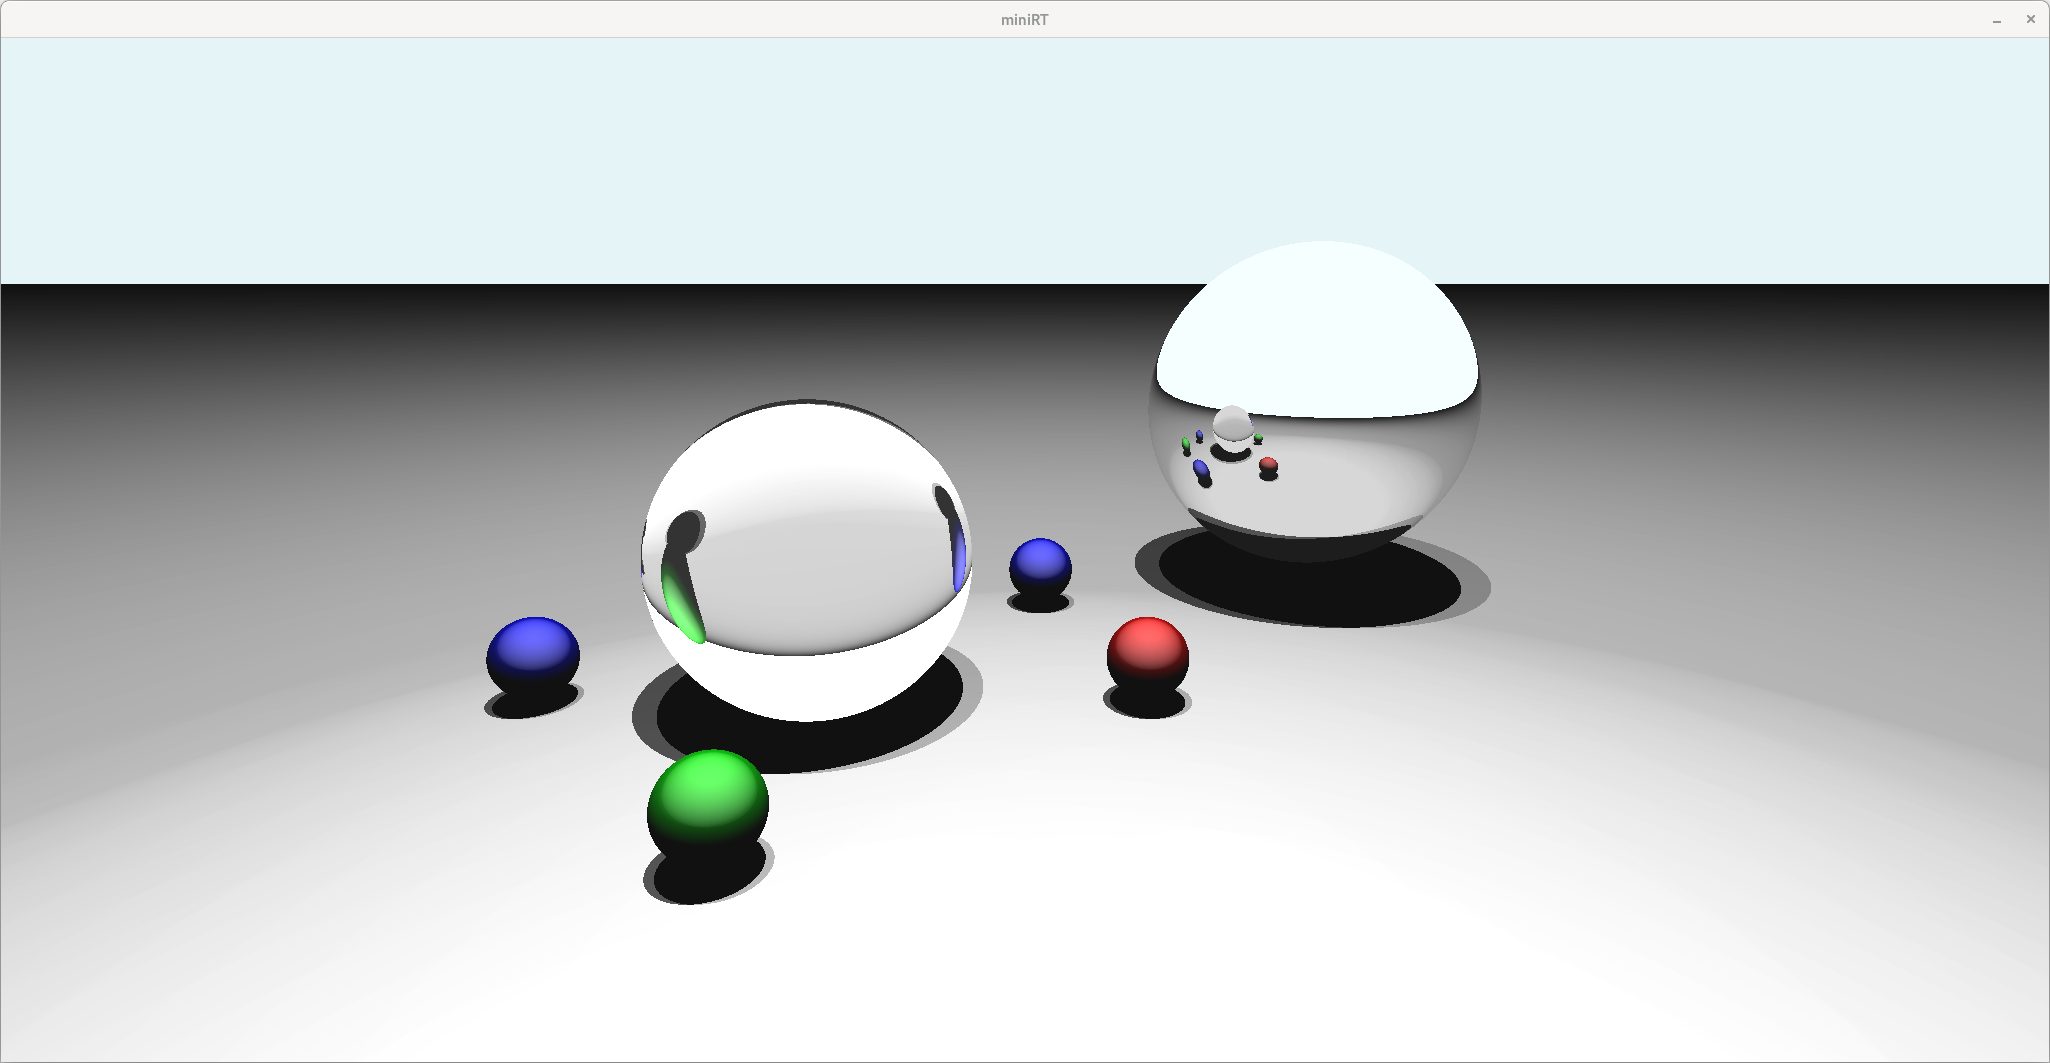
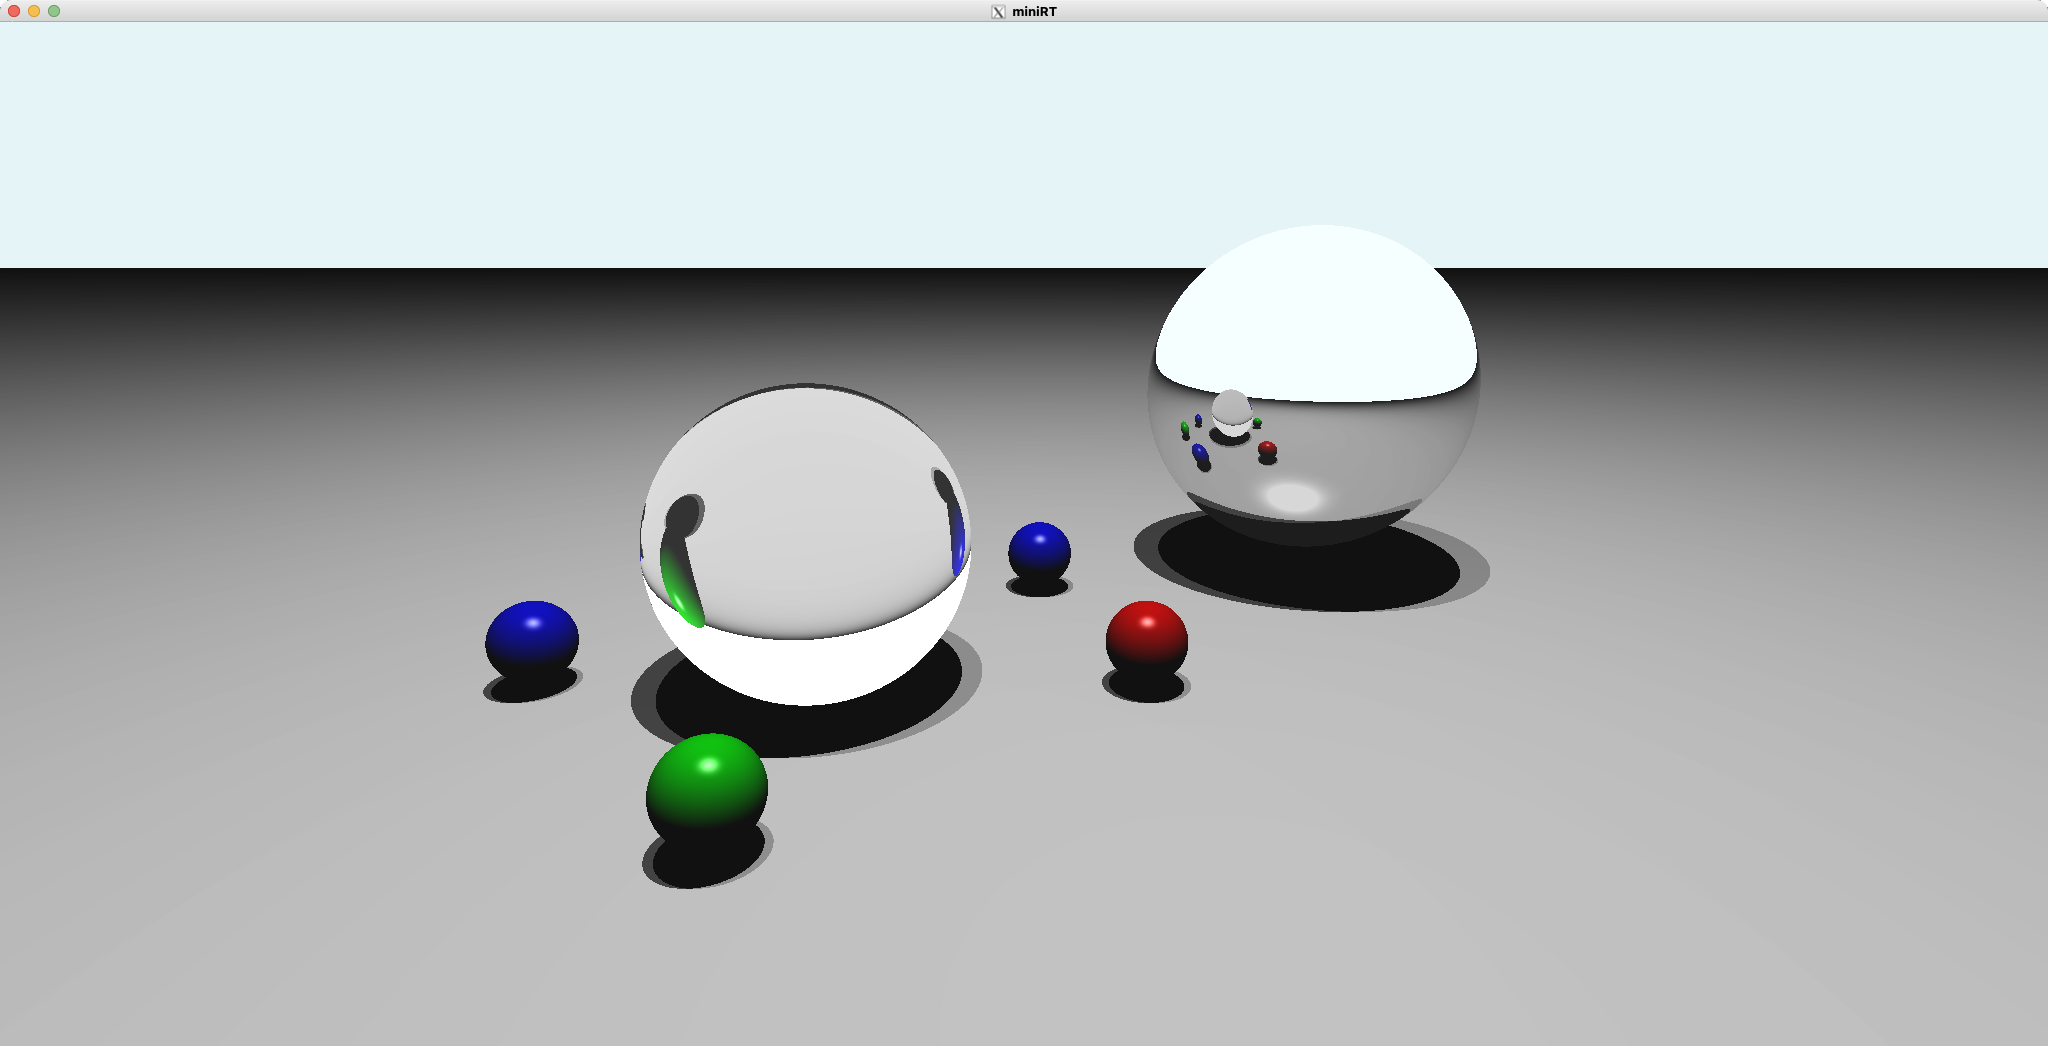
docs: README.md と minirt.h を更新、スクリーンショットを更新

diff --git a/includes/minirt.h b/includes/minirt.h
@@ -6,7 +6,7 @@
 /*   By: keishii <[email redacted]>       +#+  +:+       +#+        */
 /*                                                +#+#+#+#+#+   +#+           */
 /*   Created: 2025/05/04 13:29:50 by keishii           #+#    #+#             */
-/*   Updated: 2025/05/27 20:11:25 by keishii          ###   ########.fr       */
+/*   Updated: 2026/05/07 19:23:10 by keishii          ###   ########.fr       */
 /*                                                                            */
 /* ************************************************************************** */
 
@@ -40,8 +40,8 @@
 # define EPS 0.001
 # define GLASS_IRT 1.4
 # define METAL_GROSS 0.9
-# define SP_KS 0.5
-# define SP_SHININESS 0.5
+# define SP_KS 1
+# define SP_SHININESS 32
 
 # define BG_COLOR 0xE4F4F7
 

diff --git a/README.md b/README.md
@@ -16,11 +16,11 @@
 機能：
 * レイトレーシングによる3Dシーンの描画（解像度2048×1024）
 * プリミティブ：球体、平面、円柱（キャップ付き）
-* Phongライティング（環境光・拡散反射・鏡面反射）
+* Phongライティングモデル（環境光・拡散反射・鏡面反射）の実装
 * ハードシャドウ
 * マテリアル：Diffuse / Mirror / Metal / Glass
 * 再帰レイトレーシングによる反射・屈折表現
-* カラーライト（光源の色が表面色に影響する加法混色）
+* カラーライト（光源の色が表面色を変調する乗算混色、複数光源は加法合成）
 * `.rt` シーンファイル形式の入力
 
 担当範囲：
@@ -56,16 +56,19 @@ $ ./miniRT scene/<scene.rt>
 
 * カメラ座標系の構築
 
-	カメラの視線方向（forward）からright・upベクトルを算出する際、視線方向がワールド上ベクトル（world_up = (0, 1, 0)）と平行になる場合、外積がゼロベクトルとなりright/upを定義できない問題が発生した（カメラが真上または真下を向くケース）。
+	カメラの視線方向（forward）からright・upベクトルを算出する際、視線方向がワールド上ベクトル（world_up = (0, -1, 0)、画像座標系のためY軸下向きを正に取る）と平行になる場合、外積がゼロベクトルとなりright/upを定義できない問題が発生した（カメラが真上または真下を向くケース）。
 
 	対策として、forwardとworld_upの内積の絶対値が1に近い場合（`fabs(dot(forward, world_up)) > 0.999`）は、world_upを `(1, 0, 0)` にフォールバックする処理を実装した。これにより、任意の視線方向で安定してカメラ座標系を構築できるようになった。
+	* `src/utils/calc_screen.c` の `calc_right_vec()`：world_upとforwardの内積判定とフォールバック処理
+	* `src/utils/calc_screen.c` の `calc_up_vec()`, `calc_llc()`：right/upからカメラ座標系の構築とビューポートの左下角計算
 
 * 数式の実装と描画結果からのデバッグ
 
 	交差判定やライティング計算で数式を実装する際、計算ミスは「画面が真っ黒」「物体の形状が崩れる」「影の出方が不自然になる」といった描画結果の異常として現れる。値の異常をデバッグで発見しづらく、原因の特定が難しかった。
 
 	対策として、数式をそのまま実装するのではなく、幾何学的な意味に分解して理解した上で実装した。これにより、描画結果の異常から計算式のどの部分に問題があるかを逆算して特定できるようになり、数学を含む処理のデバッグが効率化された。
-	* `src/render/hit_scene.c`, `intersect_pl.c`, `intersect_sp.c`：平面・球などのオブジェクトとの交差判定ロジック
+	* `src/render/intersect_pl.c`, `intersect_sp.c`：平面・球などのオブジェクトとの交差判定ロジック
+	* `src/math_original/quadratic_eq.c` の `calc_quad_discriminant()`, `solve_quad_eq()`：二次方程式の判別式計算と解の公式
 
 
 ## 工夫・力をいれた点
@@ -73,7 +76,9 @@ $ ./miniRT scene/<scene.rt>
 * 処理を分離したパイプライン設計による拡張性の確保
 
 	レイトレーシングの実装にあたり、「レイ生成 → 交差判定 → ライティング」の各処理を独立したステージとして分離するパイプライン構造を採用した。これにより、新しいプリミティブやマテリアルの追加時に既存コードへの影響を最小化し、各処理のデバッグを個別に実施可能にした。実際にDiffuseに加えてMirror / Metal / Glassの3種類のマテリアルを後から追加できた。
-	* `src/render/render_scene.c`, `ray.c`：ピクセルごとにカメラからレイを生成し、ピクセルの配置を行うメインループ
+	* `src/render/render_scene.c`, `ray.c`：ピクセルごとにカメラからレイを生成するメインループ
+	* `src/render/hit_scene.c`：オブジェクトリストへのディスパッチによる交差判定ステージ
+	* `src/lighting/calc_lighting.c`：マテリアル種別による分岐とライティングステージの統括
 
 ## 参考にしたソースファイル
 